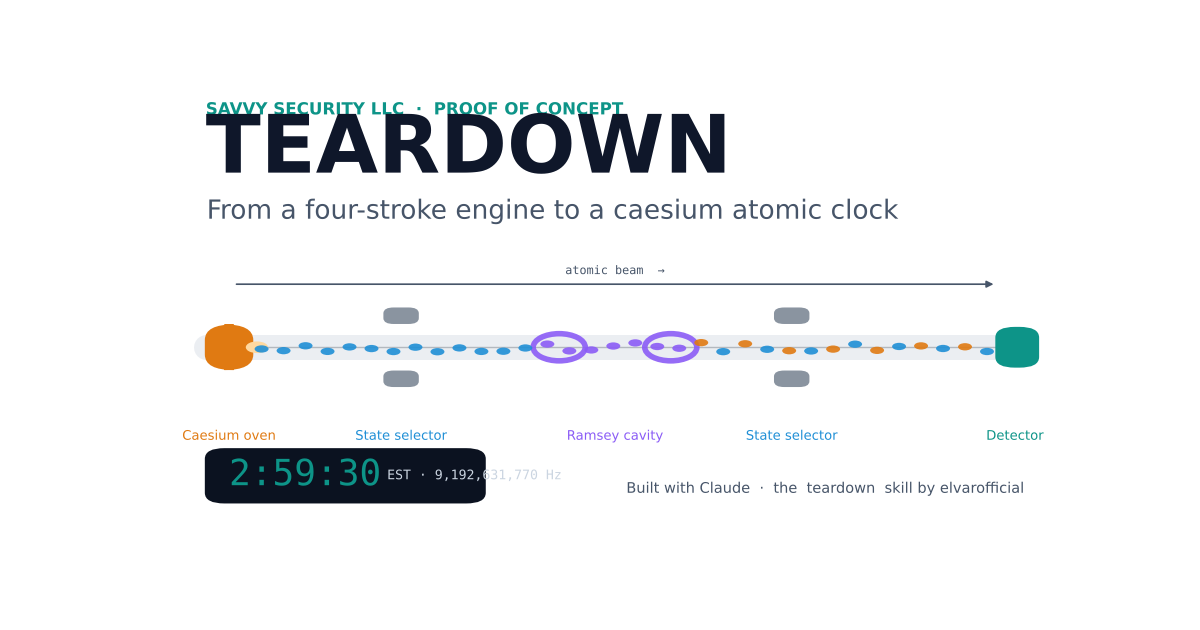
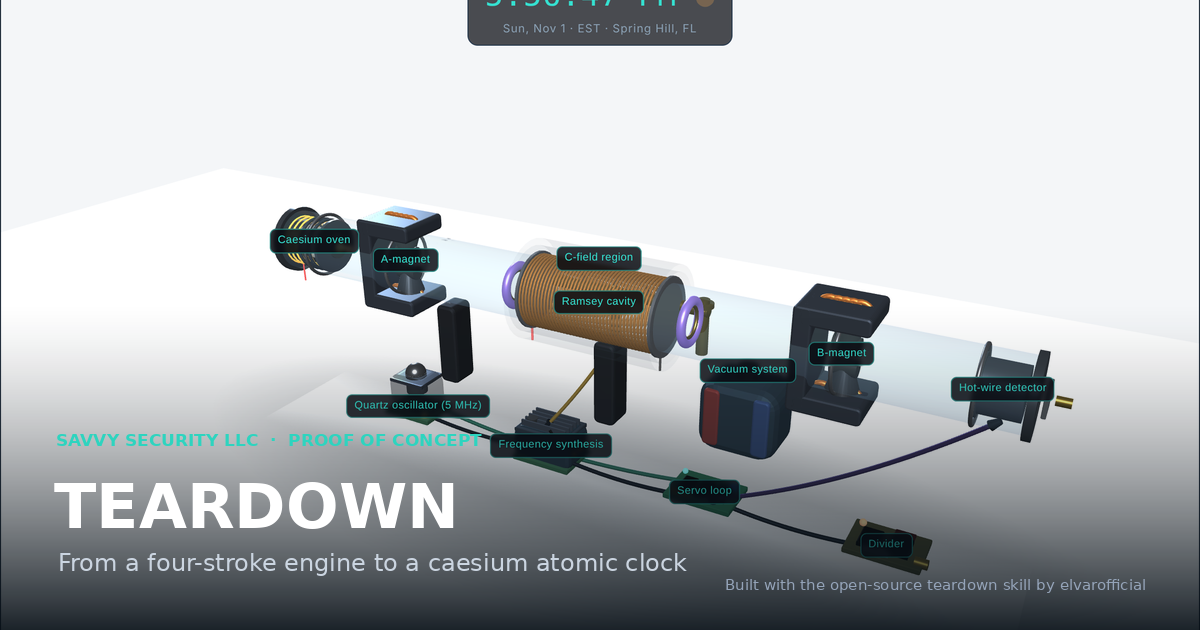
Rewrite atomic-clock article with real screenshots
Replace the diagram figures with actual captures of the running 3D build —
overview, oven, Ramsey cavity, exploded view, quartz, and the live instrument
panel + Ramsey fringe — plus a real three-shot progression and a cover built
from a screenshot. Original, detailed writeup; full credit to elvarofficial.

Claude-Session: https://claude.ai/code/session_01YXoVwwxemi4SoJ6UT6wZSp

diff --git a/posts/teardown-engine-to-atomic-clock/index.html b/posts/teardown-engine-to-atomic-clock/index.html
@@ -3,30 +3,30 @@
 <head>
 <meta charset="utf-8">
 <meta name="viewport" content="width=device-width, initial-scale=1">
-<title>Teardown: From a Four-Stroke Engine to a Caesium Atomic Clock</title>
-<meta name="description" content="A proof of concept for elvarofficial's open-source 'teardown' skill. We used it to build a running engine, a cuckoo clock, and an interactive caesium atomic clock you can take apart in 3D. What it is, how it rendered, and what to verify.">
+<title>We Took an Atomic Clock Apart in Your Browser</title>
+<meta name="description" content="A proof of concept for elvarofficial's open-source 'teardown' skill. We pointed it at three machines — an engine, a cuckoo clock, and a caesium atomic clock — and the last one lets you fly into every component. Real screenshots, real code, and what to verify.">
 
 <!-- Open Graph / Facebook -->
 <meta property="og:type" content="article">
-<meta property="og:title" content="Teardown: From a Four-Stroke Engine to a Caesium Atomic Clock">
-<meta property="og:description" content="A proof of concept for elvarofficial's open-source 'teardown' skill: a running engine, a cuckoo clock, and an interactive caesium atomic clock you can take apart in 3D.">
+<meta property="og:title" content="We Took an Atomic Clock Apart in Your Browser">
+<meta property="og:description" content="A proof of concept for an open-source 'teardown' skill: a caesium atomic clock you can fly into, component by component, in a browser. Real screenshots, real code, honest scope.">
 <meta property="og:image" content="https://malcolm1014.github.io/savvy-blog/posts/teardown-engine-to-atomic-clock/assets/cover.png">
 <meta property="og:image:type" content="image/png">
 <meta property="og:image:width" content="1200">
 <meta property="og:image:height" content="630">
-<meta property="og:image:alt" content="TEARDOWN — from a four-stroke engine to a caesium atomic clock. A labeled atomic beam line with a live clock reading 2:59:30 EST.">
+<meta property="og:image:alt" content="TEARDOWN — a labeled caesium atomic beam line on a white bench, oven to detector, with a live clock readout.">
 <meta property="og:url" content="https://malcolm1014.github.io/savvy-blog/posts/teardown-engine-to-atomic-clock/">
 <meta property="og:site_name" content="Savvy Security LLC">
 <meta property="og:locale" content="en_US">
 <meta property="article:author" content="Malcolm R. Smith">
-<meta property="article:published_time" content="2026-11-01T10:00:00-05:00">
+<meta property="article:published_time" content="2026-11-01T18:00:00-05:00">
 
 <!-- Twitter Card -->
 <meta name="twitter:card" content="summary_large_image">
-<meta name="twitter:title" content="Teardown: From a Four-Stroke Engine to a Caesium Atomic Clock">
-<meta name="twitter:description" content="A proof of concept for an open-source 'teardown' skill: an engine, a cuckoo clock, and a caesium atomic clock you can take apart in 3D.">
+<meta name="twitter:title" content="We Took an Atomic Clock Apart in Your Browser">
+<meta name="twitter:description" content="A caesium atomic clock you can fly into, component by component, in a browser — a proof of concept for an open-source teardown skill.">
 <meta name="twitter:image" content="https://malcolm1014.github.io/savvy-blog/posts/teardown-engine-to-atomic-clock/assets/cover.png">
-<meta name="twitter:image:alt" content="TEARDOWN — a labeled caesium atomic beam line with a live clock readout.">
+<meta name="twitter:image:alt" content="A labeled caesium atomic beam line with a live clock readout.">
 
 <style>
   :root{
@@ -43,113 +43,138 @@
     line-height:1.65;
   }
   .hero{
-    background:#ffffff url('assets/cover.png') center/cover no-repeat;
+    background:#0b1220 url('assets/cover.png') center/cover no-repeat;
     aspect-ratio:1200/630; width:100%; border-bottom:1px solid var(--rule);
   }
-  main{max-width:720px; margin:0 auto; padding:40px 20px 80px;}
+  main{max-width:760px; margin:0 auto; padding:40px 20px 80px;}
   .kicker{color:var(--accent); font-weight:700; letter-spacing:.08em; font-size:.8rem; text-transform:uppercase; margin:0 0 8px;}
-  h1{font-size:1.9rem; line-height:1.25; margin:0 0 6px;}
+  h1{font-size:2rem; line-height:1.22; margin:0 0 6px;}
   .byline{color:var(--muted); font-size:.95rem; margin:0 0 10px;}
   .dedication{color:var(--muted); font-size:.95rem; font-style:italic; margin:0 0 32px; border-left:4px solid var(--accent); padding:6px 0 6px 14px;}
-  h2{font-size:1.3rem; margin:40px 0 12px; border-bottom:1px solid var(--rule); padding-bottom:8px;}
+  h2{font-size:1.35rem; margin:44px 0 12px; border-bottom:1px solid var(--rule); padding-bottom:8px;}
+  h3{font-size:1.05rem; margin:28px 0 6px;}
   p{margin:0 0 18px;}
   ul,ol{margin:0 0 18px; padding-left:22px;}
   li{margin-bottom:8px;}
   a{color:var(--accent);}
   sup a{text-decoration:none; font-weight:700;}
-  figure{margin:28px 0;}
-  figure img{width:100%; height:auto; display:block; border:1px solid var(--rule); border-radius:10px;}
+  figure{margin:30px 0;}
+  figure img{width:100%; height:auto; display:block; border:1px solid var(--rule); border-radius:10px; background:#fff;}
   figcaption{color:var(--muted); font-size:.85rem; margin-top:8px;}
-  code{font-family:"DejaVu Sans Mono",ui-monospace,SFMono-Regular,Menlo,monospace; font-size:.9em; background:var(--card); border:1px solid var(--rule); border-radius:5px; padding:1px 6px;}
+  code{font-family:"DejaVu Sans Mono",ui-monospace,SFMono-Regular,Menlo,monospace; font-size:.88em; background:var(--card); border:1px solid var(--rule); border-radius:5px; padding:1px 6px;}
   .callout{border-left:4px solid var(--accent); background:var(--card); padding:14px 18px; border-radius:0 8px 8px 0; margin:0 0 22px;}
   .callout p{margin:0;}
   .sources{font-size:.85rem; color:var(--muted);}
   .sources li{margin-bottom:6px;}
-  .cta{
-    margin-top:48px; padding:24px; border:1px solid var(--rule); border-radius:10px;
-    background:var(--card);
-  }
+  .cta{margin-top:48px; padding:24px; border:1px solid var(--rule); border-radius:10px; background:var(--card);}
   .cta p{margin:0 0 14px;}
-  .btn{
-    display:inline-block; background:var(--accent); color:#042f2a !important; text-decoration:none;
-    padding:10px 18px; border-radius:6px; font-weight:700; font-size:.9rem; margin:0 8px 8px 0;
-  }
+  .btn{display:inline-block; background:var(--accent); color:#042f2a !important; text-decoration:none; padding:10px 18px; border-radius:6px; font-weight:700; font-size:.9rem; margin:0 8px 8px 0;}
   .btn.alt{background:transparent; color:var(--accent) !important; border:1px solid var(--accent);}
   footer{color:var(--muted); font-size:.85rem; text-align:center; padding:24px 20px 40px;}
 </style>
 </head>
 <body>
 
-<div class="hero" role="img" aria-label="TEARDOWN — from a four-stroke engine to a caesium atomic clock. A labeled atomic beam line with a live clock reading 2:59:30 EST."></div>
+<div class="hero" role="img" aria-label="TEARDOWN — a labeled caesium atomic beam line on a white bench, oven to detector, with a live clock readout."></div>
 
 <main>
   <p><a href="../../">&larr; All articles</a></p>
   <p class="kicker">Savvy Security LLC &middot; Proof of Concept</p>
-  <h1>Teardown: From a Four-Stroke Engine to a Caesium Atomic Clock</h1>
+  <h1>We Took an Atomic Clock Apart in Your Browser</h1>
   <p class="byline">By Malcolm R. Smith &middot; Savvy Security LLC &middot; November 1, 2026</p>
-  <p class="dedication">For <strong>elvarofficial</strong>, who built the <em>teardown</em> skill and gave it away under an open licence. This article is our proof that it works &mdash; and an invitation for everyone else to take it apart.</p>
+  <p class="dedication">For <strong>elvarofficial</strong>, who wrote the open-source <em>teardown</em> skill and gave it away. Every screenshot in this article is the real build their tool made possible &mdash; running, labelled, and pulled apart.</p>
 
-  <p>Every so often a piece of open-source software is good enough that the right response is not a review but a demonstration. <strong>teardown</strong> is one of those. It is a skill for Claude Code, published on GitHub by a developer who goes by <strong>elvarofficial</strong>, and its premise is simple and a little audacious: ask how any machine works, and it writes a single offline web page where that machine runs in 3D and you can take it apart.<sup><a href="#ref-1">[1]</a></sup></p>
+  <p>There is a kind of open-source software that doesn't deserve a review so much as a demonstration. <strong>teardown</strong> is one of those. It is a skill for Claude Code, published on GitHub by a developer who goes by <strong>elvarofficial</strong>, and the pitch is both simple and a little audacious: ask how a machine works, and it writes a single offline web page where that machine runs in 3D and you can take it apart.<sup><a href="#ref-1">[1]</a></sup></p>
 
-  <p>I don't write code by hand. What I do is turn vague ideas into exact instructions, and over this project I pointed that skill &mdash; and a lot of back-and-forth with Claude &mdash; at three machines in a row: a four-stroke engine, a mechanical cuckoo clock, and finally a caesium atomic clock, the instrument that defines the second. This is the record of what we built, how it rendered, and &mdash; because this is a security firm's blog &mdash; what you should verify before you believe any of it.</p>
+  <p>I don't write code by hand &mdash; I turn vague ideas into exact instructions &mdash; so I pointed that skill, and a long conversation with Claude, at three machines in a row, hardest last: a four-stroke engine, a mechanical cuckoo clock, and a caesium atomic clock, the instrument that <em>defines</em> the second. This is the result, with real captures of the running builds. It is also, because this is a security firm's blog, honest about exactly what is real and what is modelled.</p>
 
   <figure>
-    <img src="assets/fig-progression.png" alt="Three panels: a four-stroke engine with piston and crank, a cuckoo clock with pendulum and bird, and a caesium atomic beam line." width="1500" height="520" loading="lazy">
-    <figcaption>Figure 1. Three builds in order of difficulty. Each is one self-contained HTML page: the machine runs in the middle and the panels around it read the real numbers.</figcaption>
+    <img src="assets/fig-progression.png" alt="Three real screenshots side by side: a four-stroke engine, a cuckoo clock showing its dial and pendulum, and a caesium atomic beam line on a white bench." width="1944" height="496" loading="lazy">
+    <figcaption>Figure 1. The three builds, in order of difficulty &mdash; each one offline HTML page, each the actual running app.</figcaption>
   </figure>
 
-  <h2>The software: a skill that takes machines apart</h2>
-  <p>teardown is not an app you launch. It is a <em>skill</em> &mdash; a packaged set of instructions you install into Claude Code once, after which you can ask in plain English for a simulator and get a finished, offline HTML file back.<sup><a href="#ref-1">[1]</a></sup> Under the hood each page is built on <strong>three.js</strong>, the MIT-licensed 3D library that lets a non-programmer stand up a 3D scene in an afternoon.<sup><a href="#ref-4">[4]</a></sup> The skill itself is built on <strong>claude-motion</strong> by whaleyxbt, and it is honest about that lineage right in its README.<sup><a href="#ref-1">[1]</a><sup><a href="#ref-2">[2]</a></sup></p>
+  <h2>The software that takes machines apart</h2>
+  <p>teardown is not an app you launch. It is a <em>skill</em> &mdash; a packaged set of instructions you install into Claude Code once, after which you can ask in plain English for a simulator and get a finished, offline HTML file back.<sup><a href="#ref-1">[1]</a></sup> Each page is built on <strong>three.js</strong>, the MIT-licensed 3D library that lets someone who isn't a graphics programmer stand up a 3D scene in an afternoon.<sup><a href="#ref-4">[4]</a></sup> The skill itself is built on <strong>claude-motion</strong> by whaleyxbt, and it credits that lineage in its own README.<sup><a href="#ref-1">[1]</a><sup><a href="#ref-2">[2]</a></sup></p>
+
+  <p>Install is one command, <code>npx skills add elvarofficial/teardown -g -a claude-code</code>, then a one-time <code>npm install</code>; it wants Node.js 20 or newer.<sup><a href="#ref-1">[1]</a></sup> The repository ships three worked examples &mdash; a V8 engine, a Cessna landing gear and a Strandbeest &mdash; so you can see the format before you build your own.</p>
 
   <figure>
-    <img src="assets/fig-github.png" alt="A GitHub repository card for elvarofficial/teardown: its description, MIT license, JavaScript language, and the install command npx skills add elvarofficial/teardown." width="1200" height="520" loading="lazy">
-    <figcaption>Figure 2. The project on GitHub. Install is one line; the whole thing is MIT-licensed and free to read, run and reuse.<sup><a href="#ref-1">[1]</a></sup></figcaption>
+    <img src="assets/fig-github.png" alt="A GitHub repository card for elvarofficial/teardown: its description, MIT license, and the one-line install command." width="1200" height="520" loading="lazy">
+    <figcaption>Figure 2. The project on GitHub: one-line install, MIT-licensed, free to read, run and reuse.<sup><a href="#ref-1">[1]</a></sup></figcaption>
   </figure>
 
-  <p>Installation is a single command, <code>npx skills add elvarofficial/teardown -g -a claude-code</code>, followed by a one-time <code>npm install</code> and a headless-browser download; it wants Node.js 20 or newer.<sup><a href="#ref-1">[1]</a></sup> The repository ships three worked examples &mdash; a V8 engine, a Cessna landing gear and a Strandbeest &mdash; so you can see the output before you build your own.</p>
+  <h2>Three builds, hardest last</h2>
+  <p><strong>The engine</strong> came first because it is the format's flagship: a single-cylinder four-stroke you can take apart. The slider-crank geometry is exact &mdash; the piston position is computed straight from the crank angle &mdash; and the panels read genuine derived values: the stroke, cylinder pressure from an adiabatic model, valve lift, and a live pressure&ndash;volume indicator loop. It proved the format could carry real numbers, not just a spinning model.</p>
 
-  <h2>What we built, in three steps</h2>
-  <p><strong>Step one, a four-stroke engine.</strong> The first ask was the format's flagship: a single-cylinder engine you can take apart. The slider-crank geometry is exact &mdash; piston position comes straight from the crank angle &mdash; and the panels read genuine derived values: the stroke (intake, compression, power, exhaust), cylinder pressure from an adiabatic model, valve lift, and a live pressure&ndash;volume indicator loop. It was proof the format could carry real numbers, not just a spinning model.</p>
+  <p><strong>The cuckoo clock</strong> is really two engines in one case: a weight-driven <em>going train</em> that keeps time off a swinging pendulum, and a <em>strike train</em> that works the bellows and shoves the bird out the door on the hour. The pendulum is the only timekeeper &mdash; everything else counts its beats &mdash; so lengthening it visibly makes the clock lose time, exactly as <code>T = 2&pi;&radic;(L/g)</code> says it should. Then we aimed at the hardest target in horology.</p>
 
-  <p><strong>Step two, a cuckoo clock.</strong> A cuckoo clock is really two engines in one case: a weight-driven <em>going train</em> that keeps time off a swinging pendulum, and a <em>strike train</em> that pumps the bellows and shoves the bird out the door on the hour. The pendulum is the only timekeeper &mdash; everything else counts its beats &mdash; so lengthening the pendulum visibly makes the clock lose time, exactly as the real physics (<code>T = 2&pi;&radic;(L/g)</code>) says it should. On the hour the two bellows play the high <em>cu</em> and the low <em>ckoo</em>, once per hour-count.</p>
-
-  <p><strong>Step three, a caesium atomic clock.</strong> Then we aimed at the hardest target in horology: the instrument that <em>defines</em> the second. This is where the project became something worth dedicating to its creator.</p>
-
-  <h2>The atomic clock, stage by stage</h2>
-  <p>The 2019 SI defines the second by fixing the caesium frequency: the unperturbed ground-state hyperfine transition of caesium-133 is, by declaration, exactly <strong>9,192,631,770 hertz</strong>.<sup><a href="#ref-5">[5]</a></sup> A caesium clock doesn't measure the second so much as <em>realise</em> it. Our build lays the whole apparatus out as a vacuum beam tube you can fly into, component by component.</p>
+  <h2>The atomic clock, taken apart</h2>
+  <p>The 2019 SI defines the second by fixing the caesium frequency: the unperturbed ground-state hyperfine transition of caesium-133 is, by declaration, exactly <strong>9,192,631,770 hertz</strong>.<sup><a href="#ref-5">[5]</a></sup> A caesium clock doesn't measure the second so much as <em>realise</em> it. The build lays the whole apparatus out as a vacuum beam tube on a bench, and you can click any stage to fly into it.</p>
 
   <figure>
-    <img src="assets/fig-beamline.png" alt="A labeled schematic of a caesium beam standard: oven, state-selector magnet, Ramsey cavity with two rings, second magnet, detector, with atoms flowing left to right." width="1600" height="560" loading="lazy">
-    <figcaption>Figure 3. The caesium beam, left to right. Atoms boil off the oven; a Stern&ndash;Gerlach magnet keeps one hyperfine state; the Ramsey cavity drives the clock transition; a second magnet and a hot-wire detector count the atoms that flipped.</figcaption>
+    <img src="assets/shot-overview.png" alt="Screenshot: the full caesium beam line on a white bench, left to right — caesium oven, A-magnet, C-field solenoid and Ramsey cavity, B-magnet, hot-wire detector — with the electronics (quartz, synthesis, servo, divider) wired below, every component labelled, and a live clock reading 5:56 PM EST." width="2336" height="1462" loading="lazy">
+    <figcaption>Figure 3. The whole apparatus, labelled. Atoms stream left to right through the tube; the electronics loop &mdash; quartz, synthesis, servo, divider &mdash; runs beneath it. The clock, top centre, reads live Eastern time.</figcaption>
   </figure>
 
-  <p>Caesium-133's outer electron and its nucleus couple into two hyperfine ground states, <em>F</em>=3 and <em>F</em>=4. The clock works the field-insensitive transition between them, and it uses <strong>Ramsey's method of separated oscillatory fields</strong> &mdash; two microwave zones with a drift in between &mdash; to make the resonance razor-sharp, the technique that won Norman Ramsey a share of the 1989 Nobel Prize.<sup><a href="#ref-6">[6]</a></sup> The detector count peaks dead on resonance, and a servo dithers the microwave and steers a quartz oscillator onto that peak. When it is centred, the quartz is <em>locked to caesium</em>, and a divider cuts the 9,192,631,770 Hz down to one pulse per second.<sup><a href="#ref-7">[7]</a></sup></p>
-
-  <p>In the live page you can click any stage to fly into it, and every stage opens further: the oven into its boron-nitride crucible, caesium charge, heater coil and collimator; the magnets into yoke, pole shoes and field coils; the electronics into the crystal, the multiplier, the servo and the divider. Floating labels name each part; an exploded view spreads them apart; a guided tour walks the whole chain. The atoms are drawn as <strong>matter-wave packets</strong> whose fringe spacing tracks their speed &mdash; faster atoms, tighter fringes, the de Broglie relation made visible &mdash; and an atom crossing the cavity shimmers between cyan and amber, a picture of a quantum superposition before it is measured.</p>
-
-  <h2>Proof of concept: the code</h2>
-  <p>The whole clock is one self-contained HTML page. It pulls three.js from a pinned CDN build and otherwise carries all of its own logic, which is the point of the teardown format: one file, offline, nothing to install. The physics on the screen is derived, not decorative.</p>
+  <p>Click the oven and the camera flies in. Its shell turns semi-transparent and its parts get their own labels: the boron-nitride crucible, the shimmering caesium charge, the heater coil, the collimator, the beam aperture. The panel at the corner carries the real description and numbers for whatever you've selected.</p>
 
   <figure>
-    <img src="assets/fig-code.png" alt="A code excerpt: the SI-second constant 9192631770, a ramseyP() fringe function, and the matter-wave shader that gives atoms de Broglie fringes and a cavity superposition." width="1240" height="610" loading="lazy">
-    <figcaption>Figure 4. Three pieces of the atomic clock, from its source. The caesium constant defines the second; <code>ramseyP()</code> is the Ramsey fringe the servo locks to; the shader gives each atom speed-dependent fringes and a superposition shimmer. Full source is in this post's <code>code/</code> folder.</figcaption>
+    <img src="assets/shot-oven.png" alt="Screenshot: the caesium oven flown into and opened — labels for Heater coil, Collimator, Beam aperture and Thermocouple — with a corner panel reading 'Caesium-133 heated to ~100 C ... beam flux about 1e11 atoms/s'." width="2336" height="1462" loading="lazy">
+    <figcaption>Figure 4. Inside the oven. Caesium-133 is heated to about 100&nbsp;&deg;C; the vapour streams out as a beam, split between the two hyperfine ground states F=3 and F=4.</figcaption>
+  </figure>
+
+  <p>The heart of it is the <strong>Ramsey cavity</strong>. Caesium-133's outer electron and its nucleus couple into two hyperfine ground states, F=3 and F=4; the clock works the field-insensitive transition between them, and it uses <strong>Ramsey's method of separated oscillatory fields</strong> &mdash; two microwave zones with a drift in between &mdash; to make the resonance razor-sharp, the technique that won Norman Ramsey a share of the 1989 Nobel Prize.<sup><a href="#ref-6">[6]</a></sup> In the build, the atoms are drawn as <strong>matter-wave packets</strong>, and an atom crossing the cavity shimmers between cyan and amber &mdash; a picture of a quantum superposition before it is measured.</p>
+
+  <figure>
+    <img src="assets/shot-cavity.png" alt="Screenshot: the Ramsey cavity flown into, showing the two glowing microwave rings, the C-field solenoid, labelled sub-parts (Waveguide flange, Beam collar, Waveguide arm, Tuning screws, U-waveguide, Microwave feed), faint matter-wave atoms crossing the gap, and a panel reading 'microwave ON, delta = +385 Hz'." width="2336" height="1462" loading="lazy">
+    <figcaption>Figure 5. The Ramsey cavity, dissected. Microwaves at 9,192,631,770&nbsp;Hz strike the beam in two zones; atoms that see the exact resonance flip F=3&nbsp;&rarr;&nbsp;F=4. The readout shows the current detuning the servo is chasing.</figcaption>
+  </figure>
+
+  <p>An <strong>exploded view</strong> slides every labelled part out from its sub-assembly at once, which is the fastest way to see how much is actually in there &mdash; the magnet yokes separating from their pole shoes and field coils, the oven from its crucible, the detector from its dynode stack.</p>
+
+  <figure>
+    <img src="assets/shot-exploded.png" alt="Screenshot: the entire atomic clock in exploded view, every component separated along the beam line and still labelled, on the white bench." width="2336" height="1462" loading="lazy">
+    <figcaption>Figure 6. Exploded. Every tagged part spreads out from its sub-assembly, labels intact, so nothing hides behind anything else.</figcaption>
+  </figure>
+
+  <p>Underneath the beam tube runs the part most people forget is even in a clock: the electronics. A <strong>quartz oscillator</strong> is the thing that actually ticks; it is stable in the short term but drifts, so the atoms discipline it. The detector count peaks dead on resonance, and a <strong>servo</strong> dithers the microwave and steers the quartz onto that peak. When it is centred, the quartz is <em>locked to caesium</em>, and a <strong>divider</strong> cuts the 9,192,631,770&nbsp;Hz down to one pulse per second.<sup><a href="#ref-7">[7]</a></sup></p>
+
+  <figure>
+    <img src="assets/shot-quartz.png" alt="Screenshot: the quartz oscillator flown into, showing its oven enclosure with the crystal can emerging, the board and trimmer, labelled, with its description panel." width="2336" height="1462" loading="lazy">
+    <figcaption>Figure 7. The quartz oscillator, flown into: a crystal in a thermostatted oven, disciplined by the atoms into a clock. This is the piece whose ticks become seconds.</figcaption>
+  </figure>
+
+  <h2>The numbers are real</h2>
+  <p>None of this is a cartoon bolted onto a 3D model. The panels beneath the scene read values derived from the simulated physics: the live Eastern time and UTC, the defining frequency, a counter racing through the 9,192,631,770 cycles that make up the current second, the lock status, the detuning, the fractional offset, and an Allan-deviation figure. Beside them, the <strong>Ramsey fringe</strong> is plotted live, with a marker showing where the servo is sitting on the central fringe.</p>
+
+  <figure>
+    <img src="assets/shot-readouts.png" alt="Screenshot: the instrument panels and the Ramsey fringe plot — Eastern Time, UTC, delta-nu-Cs = 9 192 631 770 Hz, cycles this second, lock status, detuning, fractional offset, Allan deviation — and a plotted Ramsey fringe with the servo lock point marked." width="2391" height="1195" loading="lazy">
+    <figcaption>Figure 8. The instrument panel. The Ramsey fringe (left) is computed and plotted live; the servo sits on its central peak. The counter top-right runs through this second's 9,192,631,770 cycles.</figcaption>
   </figure>
 
   <div class="callout">
-    <p><strong>An honest note on what this is.</strong> This is a faithful <em>simulation and visualisation</em> of how a caesium clock works, not a literal CAD model and not a real atomic reference. The quantum physics is modelled from the real quantities &mdash; the hyperfine states, the 9,192,631,770 Hz definition, the Ramsey interrogation, the servo lock. The time it displays is read from your device's network-synchronised clock and formatted to Eastern Time (America/New_York, so it handles the EST/EDT switch on its own); no web page can contain an actual caesium oscillator. The stability figures are representative of commercial caesium beam standards (around 10<sup>&minus;12</sup>); laboratory fountains do far better. We say what it is.</p>
+    <p><strong>An honest note on what this is.</strong> This is a faithful <em>simulation and visualisation</em> of how a caesium clock works, not a literal CAD model and not a real atomic reference. The quantum physics is modelled from the real quantities &mdash; the hyperfine states, the 9,192,631,770&nbsp;Hz definition, the Ramsey interrogation, the servo lock. The time it displays is read from your device's network-synchronised clock and formatted to Eastern Time (<code>America/New_York</code>, so it handles the EST/EDT switch itself); no web page can contain an actual caesium oscillator. The stability figures are representative of commercial caesium beam standards (around 10<sup>&minus;12</sup>); laboratory fountains do far better. The screenshots above are real captures of the running build. We say what it is.</p>
   </div>
 
-  <h2>Credit where it is due</h2>
-  <p>None of this would exist without the people who gave their work away. <strong>elvarofficial</strong> wrote and open-sourced the teardown skill that makes "take this machine apart in 3D" a one-line request.<sup><a href="#ref-1">[1]</a></sup> It stands on <strong>whaleyxbt's</strong> claude-motion runtime, and its sound work traces to CC0 samples from Freesound prepared in <strong>Barty-Bart's</strong> motion-graphics project.<sup><a href="#ref-2">[2]</a><sup><a href="#ref-3">[3]</a></sup> The 3D itself is <strong>three.js</strong>, MIT-licensed and maintained by mrdoob and hundreds of contributors.<sup><a href="#ref-4">[4]</a></sup> Our part was the prompting, the physics checks and the finish work. The foundation was theirs, freely offered, and that is worth naming out loud.</p>
+  <h2>Proof of concept: the code</h2>
+  <p>The whole clock is one self-contained HTML page. It pulls three.js from a single pinned CDN build and otherwise carries all of its own logic, which is the point of the format: one file, offline, nothing to install. The physics on screen is derived, not decorative &mdash; here are three pieces of it, straight from the source.</p>
 
-  <h2>Why a security firm cares about a 3D toy</h2>
-  <p>Because the pattern underneath it is the one we work in every day. One person with a clear idea, open-source foundations and an AI assistant can now ship real, inspectable software &mdash; and "inspectable" is the whole game. The teardown output is a single HTML file you can read end to end. Its one outside dependency is a pinned, versioned library from a CDN, which is exactly the kind of supply-chain detail a defender should pin or self-host rather than trust by default. The honest move, every time, is to publish the source, state plainly what is modelled versus real, and let people verify it. That is what we did here, and it is what we would tell any client shipping an AI-built product to do.</p>
+  <figure>
+    <img src="assets/fig-code.png" alt="Code excerpt: the SI-second constant 9192631770 and a cycles counter, a ramseyP() fringe function, and the matter-wave shader that gives atoms de Broglie fringes and a cavity superposition." width="1240" height="610" loading="lazy">
+    <figcaption>Figure 9. From the atomic clock's source. The caesium constant defines the second; <code>ramseyP()</code> is the fringe the servo locks to; the shader gives each atom speed-dependent fringes and the cavity superposition. The full source of all three builds is in this post's <code>code/</code> folder.</figcaption>
+  </figure>
+
+  <h2>Credit where it is due</h2>
+  <p>None of this would exist without the people who gave their work away. <strong>elvarofficial</strong> wrote and open-sourced the teardown skill that makes "take this machine apart in 3D" a one-line request.<sup><a href="#ref-1">[1]</a></sup> It stands on <strong>whaleyxbt's</strong> claude-motion runtime, and its sound work traces to CC0 samples from Freesound prepared in <strong>Barty-Bart's</strong> motion-graphics project.<sup><a href="#ref-2">[2]</a><sup><a href="#ref-3">[3]</a></sup> The 3D is <strong>three.js</strong>, MIT-licensed, by mrdoob and hundreds of contributors.<sup><a href="#ref-4">[4]</a></sup> Our part was the prompting, the physics checks and the finish work. The foundation was theirs, freely offered, and that deserves to be named.</p>
+
+  <h2>Why a security firm cares about a 3D clock</h2>
+  <p>Because the pattern underneath it is the one we work in every day. One person with a clear idea, open-source foundations and an AI assistant can now ship real, inspectable software &mdash; and "inspectable" is the whole game. The output is a single HTML file you can read end to end. Its one outside dependency is a pinned, versioned library from a CDN &mdash; exactly the kind of supply-chain detail a defender should pin or self-host rather than trust by default. The honest move, every time, is to publish the source, state plainly what is modelled versus real, and let people verify it. That is what we did here, and it is what we would tell any client shipping an AI-built product to do.</p>
 
   <h2>Take it apart yourself</h2>
-  <p>The best way to understand this project is to open it and start clicking. The three live builds below run entirely in your browser &mdash; no install, no account. Then go install the skill and build your own machine.</p>
+  <p>The best way to understand this is to open it and start clicking. All three builds run entirely in your browser &mdash; no install, no account. Then go install the skill and build your own machine.</p>
 
   <div class="cta">
-    <p><strong>Run the builds.</strong> Each opens in your browser; drag to orbit, click a part to dive in.</p>
+    <p><strong>Run the builds.</strong> Each opens in your browser; drag to orbit, click a part to fly in.</p>
     <a class="btn" href="code/atomic-clock.html" target="_blank" rel="noopener">Launch the atomic clock</a>
     <a class="btn alt" href="code/cuckoo-clock.html" target="_blank" rel="noopener">The cuckoo clock</a>
     <a class="btn alt" href="code/four-stroke-engine.html" target="_blank" rel="noopener">The engine</a>
@@ -157,7 +182,7 @@
   </div>
 
   <h2>Sources</h2>
-  <p class="sources">All links accessed November 1, 2026. Figures 1 to 4 were made for this article from the three builds and the project's own README; the code excerpt in Figure 4 is from the atomic clock's source, included in this post's <code>code/</code> folder.</p>
+  <p class="sources">All links accessed November 1, 2026. Figures 3 to 8 are real screenshots of the running atomic-clock build; Figure 1 and Figure 7 are likewise real captures; Figure 9 is from the clock's own source, included in this post's <code>code/</code> folder. The build is rendered for the article with a pinned three.js.</p>
   <ol class="sources">
     <li id="ref-1">elvarofficial. <em>teardown</em> &mdash; a Claude Code skill that turns any machine into a 3D simulator you can take apart. README, source and examples; MIT licence. <a href="https://github.com/elvarofficial/teardown" target="_blank" rel="noopener">github.com/elvarofficial/teardown</a></li>
     <li id="ref-2">whaleyxbt. <em>claude-motion</em> (MIT) &mdash; the runtime, frame capture and review rules teardown is built on. <a href="https://github.com/whaleyxbt/claude-motion" target="_blank" rel="noopener">github.com/whaleyxbt/claude-motion</a></li>

diff --git a/index.html b/index.html
@@ -50,10 +50,10 @@
   <p class="lede">Notes on security, systems architecture, and infrastructure.</p>
 
   <a class="post" href="posts/teardown-engine-to-atomic-clock/">
-    <img src="posts/teardown-engine-to-atomic-clock/assets/cover.png" alt="TEARDOWN — from a four-stroke engine to a caesium atomic clock. A labeled atomic beam line with a live clock reading 2:59:30 EST.">
+    <img src="posts/teardown-engine-to-atomic-clock/assets/cover.png" alt="TEARDOWN — a labeled caesium atomic beam line on a white bench, oven to detector, with a live clock readout.">
     <div class="body">
-      <h2>Teardown: From a Four-Stroke Engine to a Caesium Atomic Clock</h2>
-      <p>A proof of concept for <strong>elvarofficial's</strong> open-source <em>teardown</em> skill. We used it to build a running engine, a cuckoo clock, and an interactive caesium atomic clock you can take apart in 3D &mdash; matter-wave atoms, exploded view, guided tour, live Eastern time. What it is, how it rendered, and what to verify.</p>
+      <h2>We Took an Atomic Clock Apart in Your Browser</h2>
+      <p>A proof of concept for <strong>elvarofficial's</strong> open-source <em>teardown</em> skill. We pointed it at three machines &mdash; an engine, a cuckoo clock, and a caesium atomic clock &mdash; and the last one lets you fly into every component. Real screenshots, real code, and what to verify.</p>
       <div class="meta">By Malcolm R. Smith &middot; November 1, 2026</div>
     </div>
   </a>
